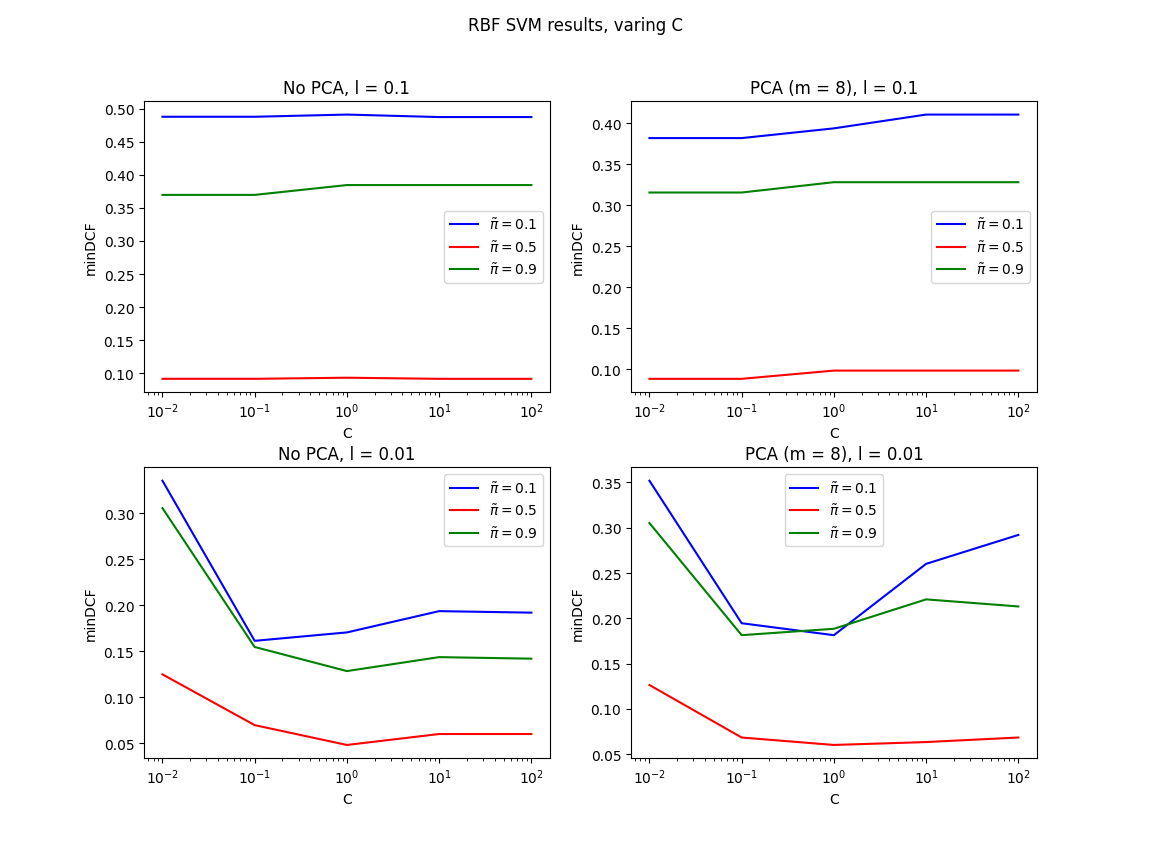
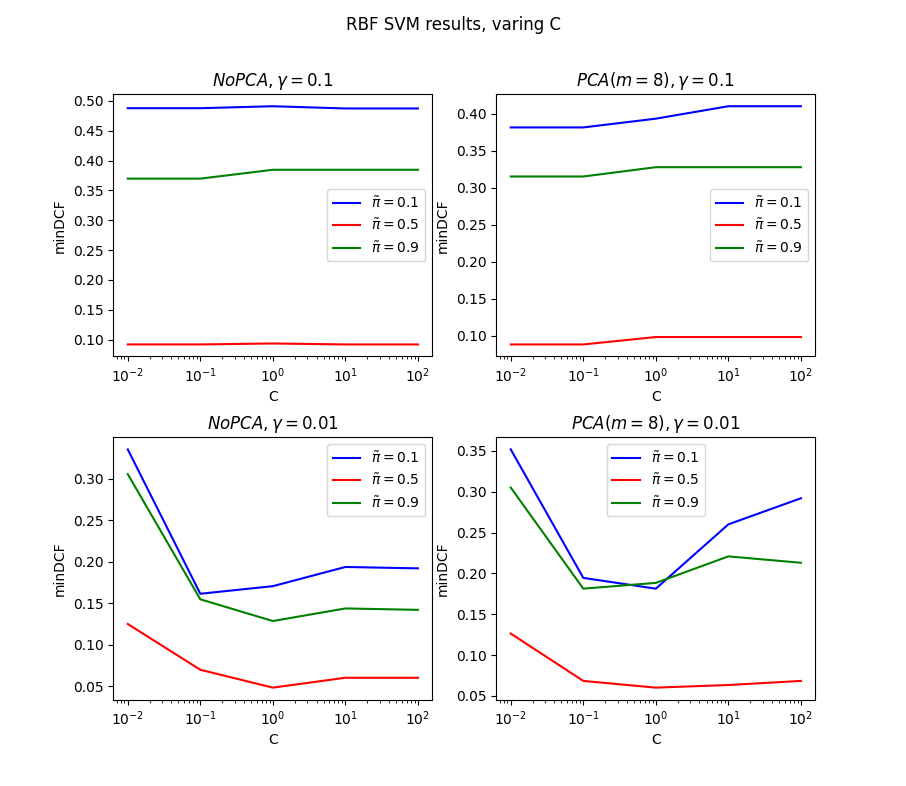
changed parameter to gamma

diff --git a/plots.py b/plots.py
@@ -214,7 +214,7 @@ def radial_svm_plot():
     plt.figure()
     plt.suptitle("RBF SVM results, varing C")
     plt.subplot(2, 2, 1)
-    plt.title("No PCA, l = 0.1")
+    plt.title(r"""$No PCA, \gamma = 0.1$""")
     plt.semilogx(C, gaussF_pcaF_ptilde_0_1_l_0_1, 'b', label=r"""$\~{\pi} = 0.1$""")
     plt.semilogx(C, gaussF_pcaF_ptilde_0_5_l_0_1, 'r', label=r"""$\~{\pi} = 0.5$""")
     plt.semilogx(C, gaussF_pcaF_ptilde_0_9_l_0_1, 'g', label=r"""$\~{\pi} = 0.9$""")
@@ -224,7 +224,7 @@ def radial_svm_plot():
     plt.ylim()
     plt.legend()
     plt.subplot(2, 2, 2)
-    plt.title("PCA (m = 8), l = 0.1")
+    plt.title(r"""$PCA (m = 8), \gamma = 0.1$""")
     plt.semilogx(C, gaussF_pca8_ptilde_0_1_l_0_1, 'b', label=r"""$\~{\pi} = 0.1$""")
     plt.semilogx(C, gaussF_pca8_ptilde_0_5_l_0_1, 'r', label=r"""$\~{\pi} = 0.5$""")
     plt.semilogx(C, gaussF_pca8_ptilde_0_9_l_0_1, 'g', label=r"""$\~{\pi} = 0.9$""")
@@ -234,7 +234,7 @@ def radial_svm_plot():
     plt.ylim()
     plt.legend()
     plt.subplot(2, 2, 3)
-    plt.title("No PCA, l = 0.01")
+    plt.title(r"""$No PCA, \gamma = 0.01$""")
     plt.semilogx(C, gaussF_pcaF_ptilde_0_1_l_0_01, 'b', label=r"""$\~{\pi} = 0.1$""")
     plt.semilogx(C, gaussF_pcaF_ptilde_0_5_l_0_01, 'r', label=r"""$\~{\pi} = 0.5$""")
     plt.semilogx(C, gaussF_pcaF_ptilde_0_9_l_0_01, 'g', label=r"""$\~{\pi} = 0.9$""")
@@ -244,7 +244,7 @@ def radial_svm_plot():
     plt.ylim()
     plt.legend()
     plt.subplot(2, 2, 4)
-    plt.title("PCA (m = 8), l = 0.01")
+    plt.title(r"""$PCA (m = 8), \gamma = 0.01$""")
     plt.semilogx(C, gaussF_pca8_ptilde_0_1_l_0_01, 'b', label=r"""$\~{\pi} = 0.1$""")
     plt.semilogx(C, gaussF_pca8_ptilde_0_5_l_0_01, 'r', label=r"""$\~{\pi} = 0.5$""")
     plt.semilogx(C, gaussF_pca8_ptilde_0_9_l_0_01, 'g', label=r"""$\~{\pi} = 0.9$""")
@@ -457,5 +457,5 @@ if __name__ == '__main__':
     """
     # quad_lr_plot()
     # linear_svm_plot()
-    quadratic_svm_plot()
-    # radial_svm_plot()
+    # quadratic_svm_plot()
+    radial_svm_plot()
